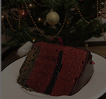
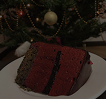
исправлена карточка-1 и бекграунд карточек

diff --git a/anich_cakes/css/style.css b/anich_cakes/css/style.css
@@ -117,7 +117,7 @@ button {
 
 .products {
   margin-top: 100px;
-  padding: 32px 24px 40px;
+  padding: 100px 24px 40px;
   background-color: #F7DCCB;
   background-image: url('../img/choco-back.jpg');
   background-position: center top;
@@ -160,6 +160,7 @@ button {
   z-index: 1;
   display: flex;
   flex-direction: column;
+  gap: 15px;
   align-items: center;
   justify-content: center;
   width: 85%;
@@ -214,9 +215,51 @@ button {
   }
 }
 
-/* 1 колонка — до 392px */
-@media (max-width: 392px) {
+@media (min-width: 392px) {
+  .products {
+    margin-top: 100px;
+    padding: 100px 24px 40px;
+    background-color: #F7DCCB;
+    background-image: url('../img/choco-back.jpg');
+    background-position: center top;
+    background-repeat: no-repeat;
+    background-size: cover;
+  }
+  .product-card__body {
+    position: relative;
+    z-index: 1;
+    display: flex;
+    flex-direction: column;
+    gap: 5px;
+    align-items: center;
+    justify-content: center;
+    width: 85%;
+    height: 100%;
+    padding-top: 0;
+  }
+}
+
+
+/* 1 колонка — до 390px */
+@media (max-width: 390px) {
   .products__grid {
     grid-template-columns: 1fr;
+  }
+
+  .product-card__body {
+    position: relative;
+    z-index: 1;
+    display: flex;
+    flex-direction: column;
+    gap: 8px;
+    align-items: center;
+    justify-content: center;
+    width: 85%;
+    height: 100%;
+    padding-top: 0;
+  }
+
+  .product-card {
+    font-size: 8px;
   }
 }